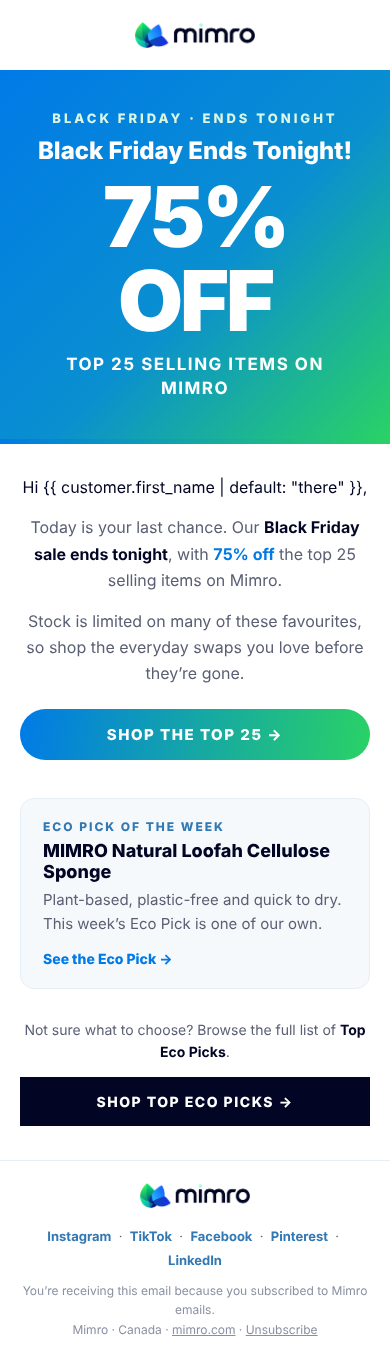
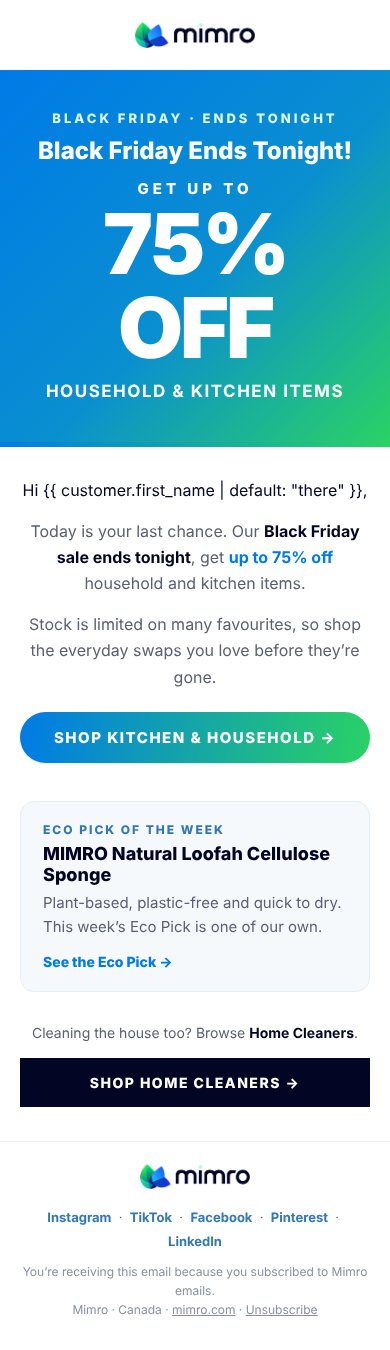
EM-Q4W8 Eco Pick email: up to 75% off household and kitchen items
Claude-Session: https://claude.ai/code/session_01NAdrPTam75Ss9kLmxSuENc

diff --git a/marketing/emails/em-q4w8-eco-pick-black-friday-ends-tonight_BODY-ONLY.html b/marketing/emails/em-q4w8-eco-pick-black-friday-ends-tonight_BODY-ONLY.html
@@ -7,27 +7,28 @@
  .outer{padding:0!important} .wrap{border-radius:0!important;border:0!important}
 }
 </style>
-<div style="display:none;max-height:0;overflow:hidden;opacity:0">Black Friday ends tonight: 75% off the top 25 selling items on Mimro.</div>
+<div style="display:none;max-height:0;overflow:hidden;opacity:0">Black Friday ends tonight: get up to 75% off household and kitchen items.</div>
 <table role="presentation" width="100%" cellpadding="0" cellspacing="0" style="background:#f3f6fa;font-family:Figtree,'Helvetica Neue',Helvetica,Arial,sans-serif;"><tr><td class="outer" align="center" style="padding:24px 12px">
 <table class="wrap" role="presentation" width="600" cellpadding="0" cellspacing="0" style="width:100%;max-width:600px;background:#ffffff;border-radius:22px;overflow:hidden;border:1px solid #e6eef8">
 
 <!-- HERO -->
 <tr><td style="background:#ffffff;padding:22px 36px 18px;text-align:center"><a href="https://www.mimro.com"><img src="https://cdn.shopify.com/s/files/1/0734/9187/4030/files/mimro-email-logo.png?v=1792101479" width="120" alt="Mimro" style="display:inline-block;border:0;height:auto"></a></td></tr>
 <tr><td style="background:#007ae7;background-image:linear-gradient(135deg,#007ae7 0%,#0a8fd0 55%,#2ad265 100%);padding:40px 36px 38px;text-align:center">
-<a href="https://www.mimro.com/collections/eco-pick-of-the-week" style="text-decoration:none">
+<a href="https://www.mimro.com/collections/kitchen-solutions" style="text-decoration:none">
 <div style="font-size:13px;font-weight:800;letter-spacing:3px;text-transform:uppercase;color:#d9f7e4">Black Friday · Ends tonight</div>
 <div class="h1" style="font-size:34px;line-height:1.12;font-weight:800;color:#ffffff;margin:12px 0 4px">Black Friday Ends Tonight!</div>
-<div style="font-size:84px;line-height:1;font-weight:900;letter-spacing:-3px;color:#ffffff;margin:10px 0 0">75% OFF</div>
-<div style="font-size:17px;line-height:1.4;font-weight:700;color:#ffffff;margin:10px 0 0;text-transform:uppercase;letter-spacing:1.5px">Top 25 selling items on Mimro</div></a>
+<div style="font-size:15px;font-weight:800;letter-spacing:4px;text-transform:uppercase;color:#ffffff;margin:14px 0 0">Get up to</div>
+<div style="font-size:84px;line-height:1;font-weight:900;letter-spacing:-3px;color:#ffffff;margin:4px 0 0">75% OFF</div>
+<div style="font-size:17px;line-height:1.4;font-weight:700;color:#ffffff;margin:10px 0 0;text-transform:uppercase;letter-spacing:1.5px">Household &amp; kitchen items</div></a>
 </td></tr>
 <tr><td style="height:5px;line-height:5px;font-size:0;background:#007ae7;background-image:linear-gradient(100deg,#007ae7,#2ad265)">&nbsp;</td></tr>
 
 <!-- BODY -->
 <tr><td class="px" style="padding:30px 36px 8px;text-align:center">
 <p style="font-size:16px;line-height:1.65;margin:0 0 14px;color:#020624">Hi {{ customer.first_name | default: "there" }},</p>
-<p style="font-size:16px;line-height:1.65;margin:0 0 14px;color:#5a5f73">Today is your last chance. Our <b style="color:#020624">Black Friday sale ends tonight</b>, with <b style="color:#007ae7">75% off</b> the top 25 selling items on Mimro.</p>
-<p style="font-size:16px;line-height:1.65;margin:0 0 22px;color:#5a5f73">Stock is limited on many of these favourites, so shop the everyday swaps you love before they&rsquo;re gone.</p>
-<a class="btn" href="https://www.mimro.com/collections/eco-pick-of-the-week" style="display:inline-block;background:#007ae7;background-image:linear-gradient(100deg,#007ae7,#2ad265);color:#ffffff;font-size:15px;font-weight:800;letter-spacing:1.5px;text-transform:uppercase;text-decoration:none;padding:17px 30px;text-align:center;border-radius:999px">Shop the Top 25 →</a>
+<p style="font-size:16px;line-height:1.65;margin:0 0 14px;color:#5a5f73">Today is your last chance. Our <b style="color:#020624">Black Friday sale ends tonight</b>, get <b style="color:#007ae7">up to 75% off</b> household and kitchen items.</p>
+<p style="font-size:16px;line-height:1.65;margin:0 0 22px;color:#5a5f73">Stock is limited on many favourites, so shop the everyday swaps you love before they&rsquo;re gone.</p>
+<a class="btn" href="https://www.mimro.com/collections/kitchen-solutions" style="display:inline-block;background:#007ae7;background-image:linear-gradient(100deg,#007ae7,#2ad265);color:#ffffff;font-size:15px;font-weight:800;letter-spacing:1.5px;text-transform:uppercase;text-decoration:none;padding:17px 30px;text-align:center;border-radius:999px">Shop Kitchen &amp; Household →</a>
 </td></tr>
 
 <!-- ECO PICK -->
@@ -41,8 +42,8 @@
 </td></tr>
 
 <tr><td class="px" style="padding:22px 36px 34px;text-align:center">
-<p style="font-size:14px;line-height:1.6;margin:0 0 14px;color:#5a5f73">Not sure what to choose? Browse the full list of <b style="color:#020624">Top Eco Picks</b>.</p>
-<a class="btn" href="https://www.mimro.com/collections/eco-pick-of-the-week" style="display:inline-block;background:#020624;color:#ffffff;font-size:14px;font-weight:800;letter-spacing:1.5px;text-transform:uppercase;text-decoration:none;padding:15px 26px;text-align:center">Shop Top Eco Picks →</a>
+<p style="font-size:14px;line-height:1.6;margin:0 0 14px;color:#5a5f73">Cleaning the house too? Browse <b style="color:#020624">Home Cleaners</b>.</p>
+<a class="btn" href="https://www.mimro.com/collections/home-cleaners" style="display:inline-block;background:#020624;color:#ffffff;font-size:14px;font-weight:800;letter-spacing:1.5px;text-transform:uppercase;text-decoration:none;padding:15px 26px;text-align:center">Shop Home Cleaners →</a>
 </td></tr>
 
 <!-- FOOTER -->
